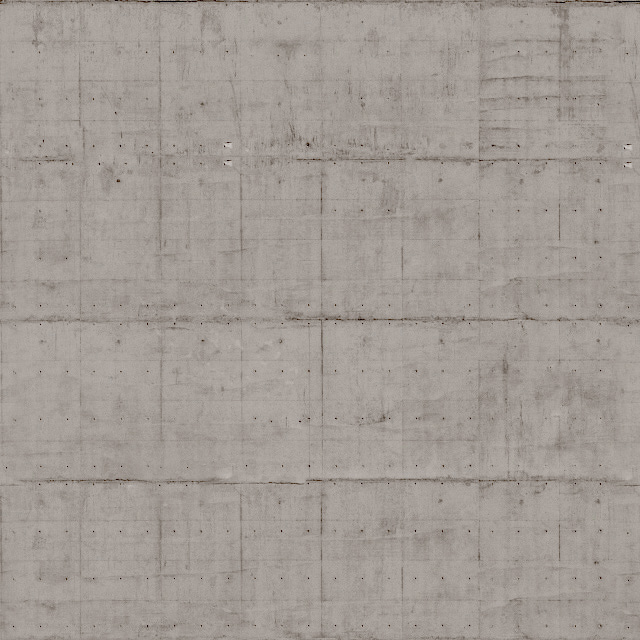
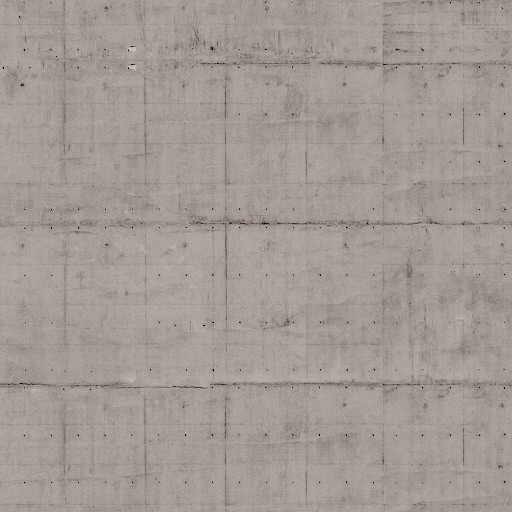
Fix sobre textura vereda

diff --git a/js/Road.js b/js/Road.js
@@ -84,27 +84,27 @@ function PlainRoadLeftBorder(height, center_x, from, to) {
             1 , 0,
             1 , 0,
             .8, 0,
-            1 , 10,
-            .8, 10,
+            1 , 1,
+            .8, 1,
 
             .8, 0,
 
-            .3, 10,
+            .3, 1,
             .3, 0,
             .3, 0,
             .1, 0,
-            .3, 10,
+            .3, 1,
 
-            .1, 10,
-            .1, 10,
+            .1, 1,
+            .1, 1,
             .1, 0,
-            0 , 10,
+            0 , 1,
             0 , 0,
 
             0, 0,
-            0, 10,
+            0, 1,
             1, 0,
-            1, 10
+            1, 1
         ];
                 
         var normal_buffer = [
@@ -300,27 +300,27 @@ function PlainRoadRightBorder(height, center_x, from, to) {
             1 , 0,
             1 , 0,
             .8, 0,
-            1 , 10,
-            .8, 10,
+            1 , 1,
+            .8, 1,
 
             .8, 0,
 
-            .3, 10,
+            .3, 1,
             .3, 0,
             .3, 0,
             .1, 0,
-            .3, 10,
+            .3, 1,
 
-            .1, 10,
-            .1, 10,
+            .1, 1,
+            .1, 1,
             .1, 0,
-            0 , 10,
+            0 , 1,
             0 , 0,
 
             0, 0,
-            0, 10,
+            0, 1,
             1, 0,
-            1, 10
+            1, 1
         ];
         
         /*this.normal_buffer = [];
